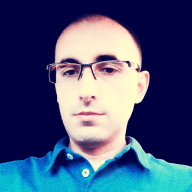
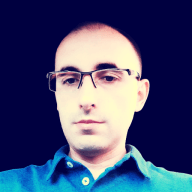
deploy: 3ec74500d51ec1252db1272bbffe07ed86e20ef3

Changed region(s): [[0.0, 0.0625, 1.0, 1.0]]

diff --git a/flutter_service_worker.js b/flutter_service_worker.js
@@ -9,14 +9,14 @@ const RESOURCES = {
 "assets/packages/cupertino_icons/assets/CupertinoIcons.ttf": "b14fcf3ee94e3ace300b192e9e7c8c5d",
 "assets/fonts/MaterialIcons-Regular.otf": "1288c9e28052e028aba623321f7826ac",
 "assets/fonts/CustomIcons.ttf": "745ad9678ee92fadb5b3e7e3f049b8a6",
-"assets/images/horatiu-tanescu.png": "cad475fc4aba4dca506e4d10c0e5a869",
+"assets/images/horatiu-tanescu.png": "249edb3cf180cea3a75480a7fd4d82d6",
 "assets/AssetManifest.json": "d91ede91ab2bde8728f80e3edcc98f86",
-"favicon.png": "ac523efa4c4e0123906627323dad6c09",
-"index.html": "f63def9bb073eb5855f415d99ad604e2",
-"/": "f63def9bb073eb5855f415d99ad604e2",
+"favicon.png": "b8e60706c61ce13a639b5474df9d1f6a",
+"index.html": "b3505a983366c40756094aa4425b1193",
+"/": "b3505a983366c40756094aa4425b1193",
 "manifest.json": "165b930e2b352c9d1fc833dd18ff63c5",
-"icons/horatiu-tanescu-192.png": "cad475fc4aba4dca506e4d10c0e5a869",
-"icons/horatiu-tanescu-512.png": "8853fe9143ef4e4e31bda8898a717868"
+"icons/horatiu-tanescu-192.png": "6282777941e12e730c9e9bc0625e67cb",
+"icons/horatiu-tanescu-512.png": "94d6fff302f7cb8e62e6c1f1ae28a4ef"
 };
 
 // The application shell files that are downloaded before a service worker can

diff --git a/index.html b/index.html
@@ -25,10 +25,10 @@
   <script>
     if ('serviceWorker' in navigator) {
       window.addEventListener('load', function () {
-        navigator.serviceWorker.register('flutter_service_worker.js?v=4042557591');
+        navigator.serviceWorker.register('flutter_service_worker.js?v=2276889248');
       });
     }
   </script>
-  <script src="main.dart.js?v=4042557591" type="application/javascript"></script>
+  <script src="main.dart.js?v=2276889248" type="application/javascript"></script>
 </body>
 </html>
